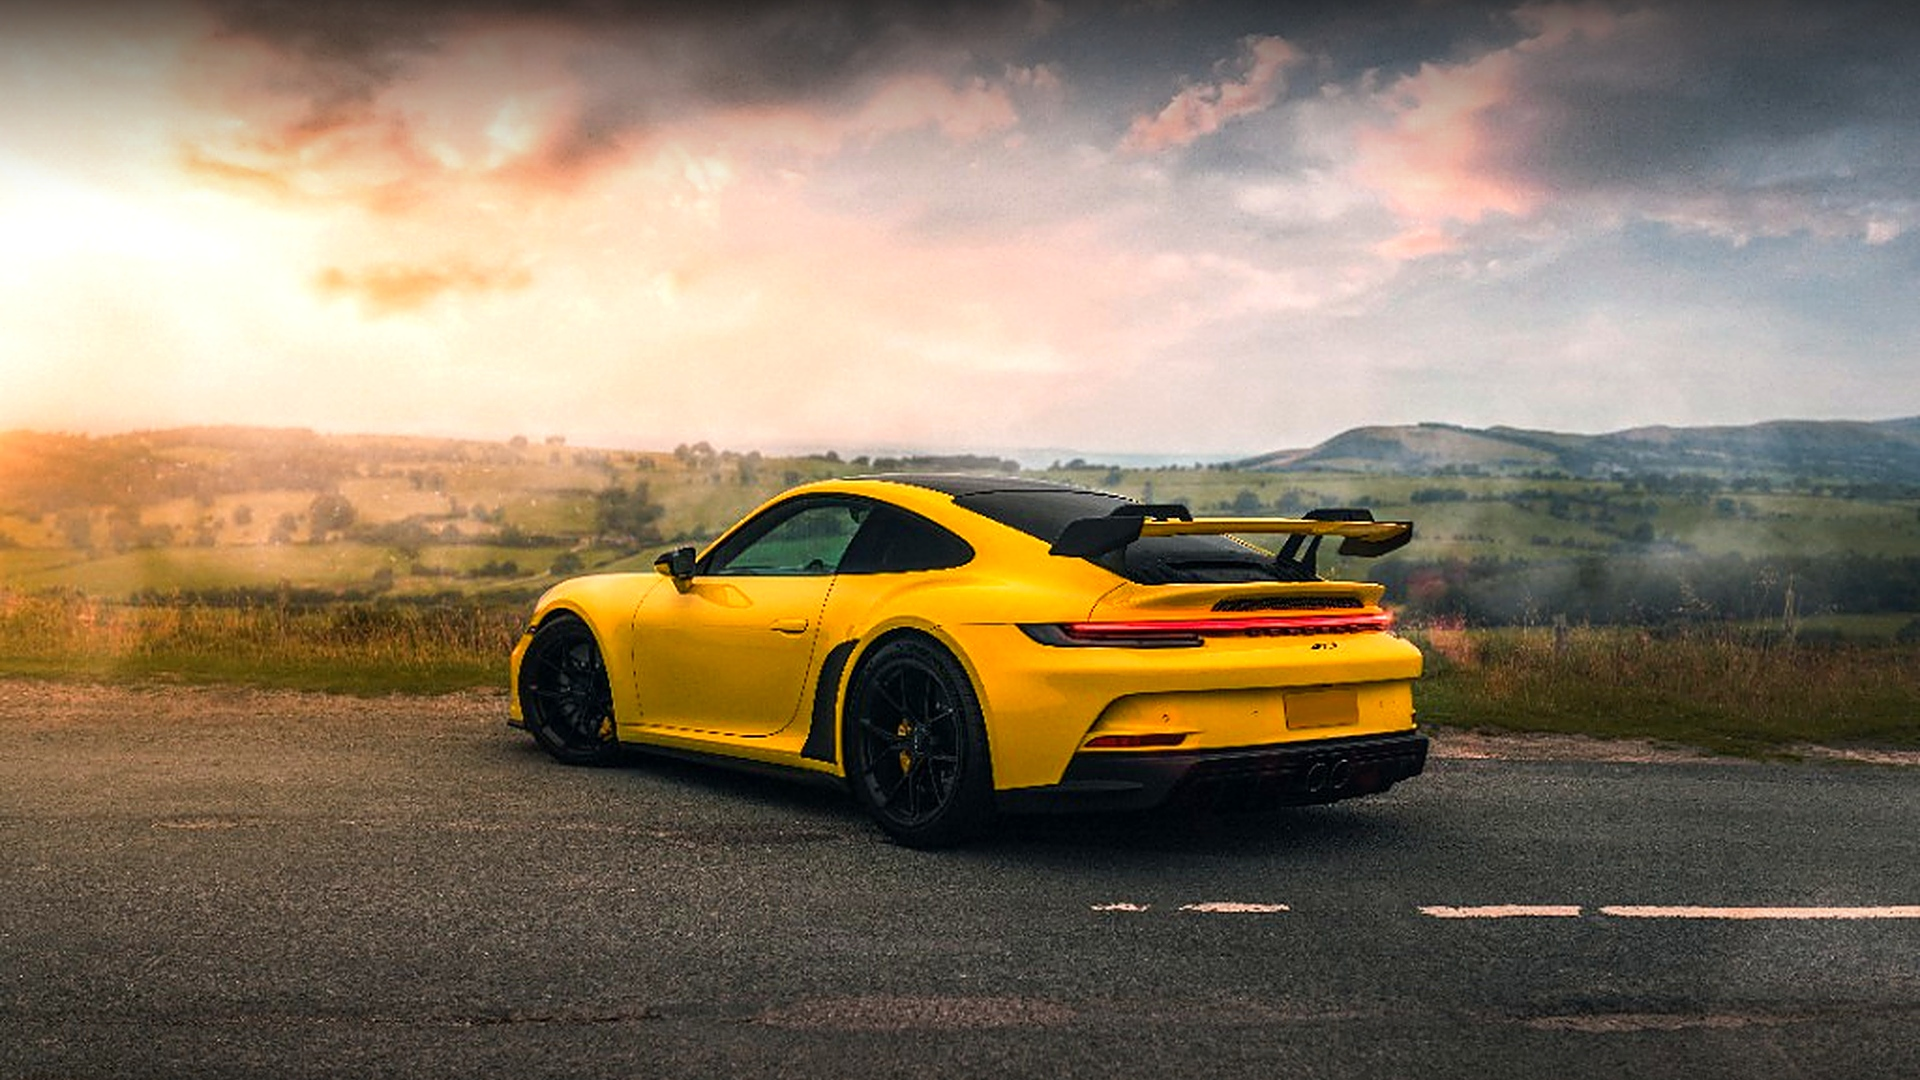
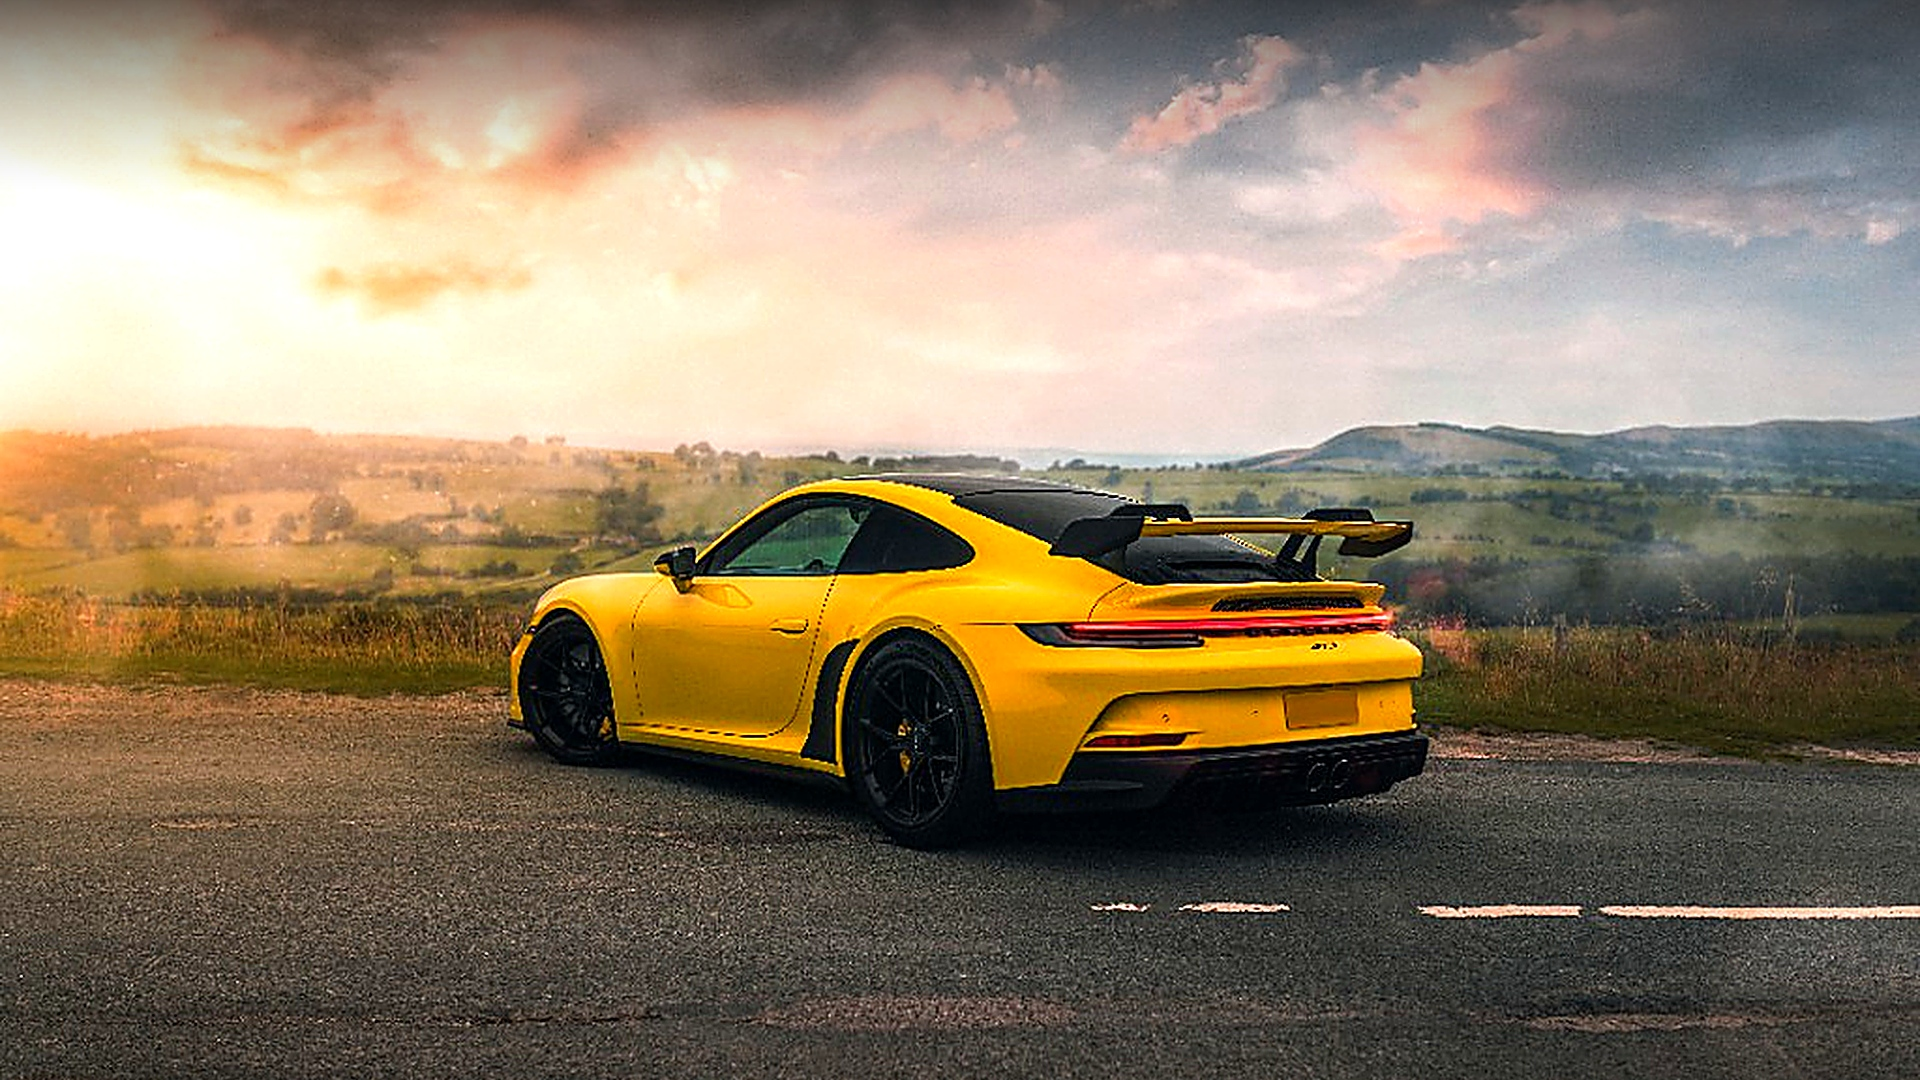
Add translucent theme panels and retro theme
Adds dark-text support for light wallpapers, makes launcher panels and dock decoration translucent, and introduces the retro theme with its configuration and wallpaper.

diff --git a/launcher/app/src/main/java/com/gathin/tvhome/Config.java b/launcher/app/src/main/java/com/gathin/tvhome/Config.java
@@ -60,6 +60,8 @@ final class Config {
     final int skyIntensity;
     /** Full-screen picture behind the launcher, or null for the plain colour. */
     final File wallpaper;
+    /** When true, header text (clock, greeting, quote) uses dark ink — for light-background themes. */
+    final boolean darkText;
     /** Whether the overlay file was present and parsed. */
     final boolean overlayApplied;
 
@@ -68,7 +70,7 @@ final class Config {
                    int columns, int rowsBelowDock, boolean animations, boolean advancedEffects,
                    boolean shamsiDate, boolean moduleCards, boolean reducedMotion, String vpnApp,
                    String ownerName, boolean showHomeSettingsShortcut, int backgroundColor, int skyIntensity,
-                   File wallpaper, boolean overlayApplied) {
+                   File wallpaper, boolean darkText, boolean overlayApplied) {
         this.dockApps = Collections.unmodifiableList(dockApps);
         this.hiddenApps = Collections.unmodifiableList(hiddenApps);
         this.liveTvPackage = liveTvPackage;
@@ -89,6 +91,7 @@ final class Config {
         this.backgroundColor = backgroundColor;
         this.skyIntensity = skyIntensity;
         this.wallpaper = wallpaper;
+        this.darkText = darkText;
         this.overlayApplied = overlayApplied;
     }
 
@@ -118,6 +121,7 @@ final class Config {
         boolean homeSettings = res.getBoolean(R.bool.show_home_settings_shortcut);
         int background = 0xFF000000;
         int skyIntensity = res.getInteger(R.integer.sky_intensity);
+        boolean darkText = false;
         boolean applied = false;
 
         File dir = dir(ctx);
@@ -144,6 +148,7 @@ final class Config {
             homeSettings = bool(json, "show_home_settings_shortcut", homeSettings);
             background = color(json, "background_color", background);
             skyIntensity = integer(json, "sky_intensity", skyIntensity, 0, 100);
+            darkText = bool(json, "dark_text", darkText);
         }
         // A theme push or reset invalidates choices made on the TV. On first use, remember the
         // current theme without clearing choices from an older launcher version.
@@ -161,7 +166,7 @@ final class Config {
         return new Config(dock, hidden, liveTv, liveTvAction, panelService, panelAction, inputAction,
                 Math.max(1, columns), Math.max(0, rowsBelow), animations, advancedEffects,
                 shamsi, moduleCards, reducedMotion, vpn, ownerName, homeSettings, background,
-                Math.max(0, Math.min(100, skyIntensity)), wallpaper, applied);
+                Math.max(0, Math.min(100, skyIntensity)), wallpaper, darkText, applied);
     }
 
     private static void syncThemeChoices(SharedPreferences choices, File dir, File config) {

diff --git a/launcher/app/src/main/java/com/gathin/tvhome/MainActivity.java b/launcher/app/src/main/java/com/gathin/tvhome/MainActivity.java
@@ -226,6 +226,21 @@ public class MainActivity extends Activity implements AppAdapter.TileListener {
         btnWifi = findViewById(R.id.btnWifi);
         shamsiDate = findViewById(R.id.shamsiDate);
         shamsi = cfg.shamsiDate;
+
+        // Light-background themes ("dark_text": true in config.json) flip the header to dark ink.
+        if (cfg.darkText) {
+            greeting.setTextColor(0xAA1A1A2E);
+            greeting.setShadowLayer(0, 0, 0, 0);
+            quote.setTextColor(0x881A1A2E);
+            quote.setShadowLayer(0, 0, 0, 0);
+            android.widget.TextClock clockView = findViewById(R.id.clock);
+            if (clockView != null) { clockView.setTextColor(0xDD1A1A2E); clockView.setShadowLayer(0,0,0,0); }
+            android.widget.TextClock ampmView = findViewById(R.id.ampm);
+            if (ampmView != null) { ampmView.setTextColor(0xAA1A1A2E); ampmView.setShadowLayer(0,0,0,0); }
+            android.widget.TextClock dateView = findViewById(R.id.date);
+            if (dateView != null) { dateView.setTextColor(0x991A1A2E); dateView.setShadowLayer(0,0,0,0); }
+            heroName.setTextColor(0xDD1A1A2E);
+        }
         if (shamsi) {
             shamsiDate.setVisibility(View.VISIBLE);
             TextView date = findViewById(R.id.date);

diff --git a/launcher/app/src/main/java/com/gathin/tvhome/DockDecoration.java b/launcher/app/src/main/java/com/gathin/tvhome/DockDecoration.java
@@ -21,10 +21,10 @@ public class DockDecoration extends RecyclerView.ItemDecoration {
     DockDecoration(int dockSize, float density) {
         this.dockSize = dockSize;
         this.density = density;
-        band.setColor(0xFF141416);
+        band.setColor(0x55141416);   // 33% opacity — wallpaper shows through
         edge.setStyle(Paint.Style.STROKE);
         edge.setStrokeWidth(density);
-        edge.setColor(0x1FFFFFFF);
+        edge.setColor(0x22FFFFFF);   // very subtle border
     }
 
     @Override
